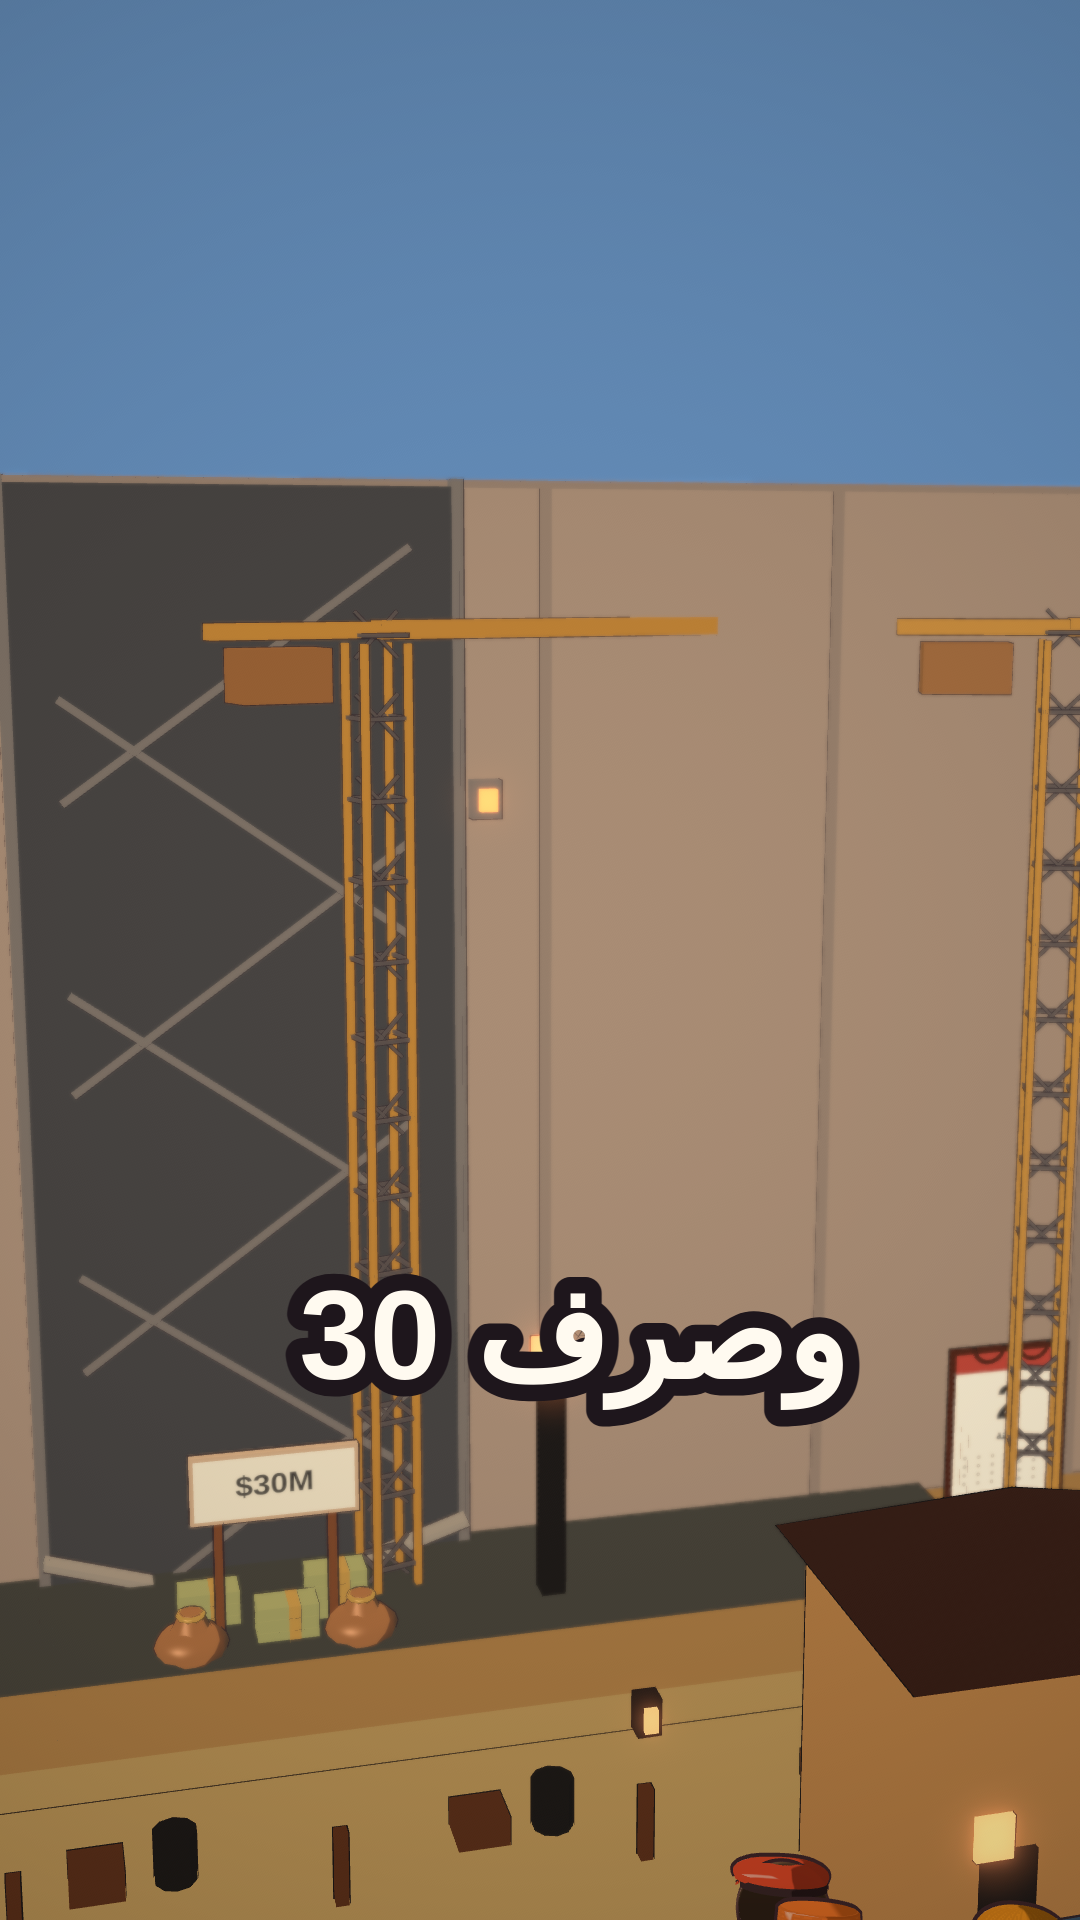
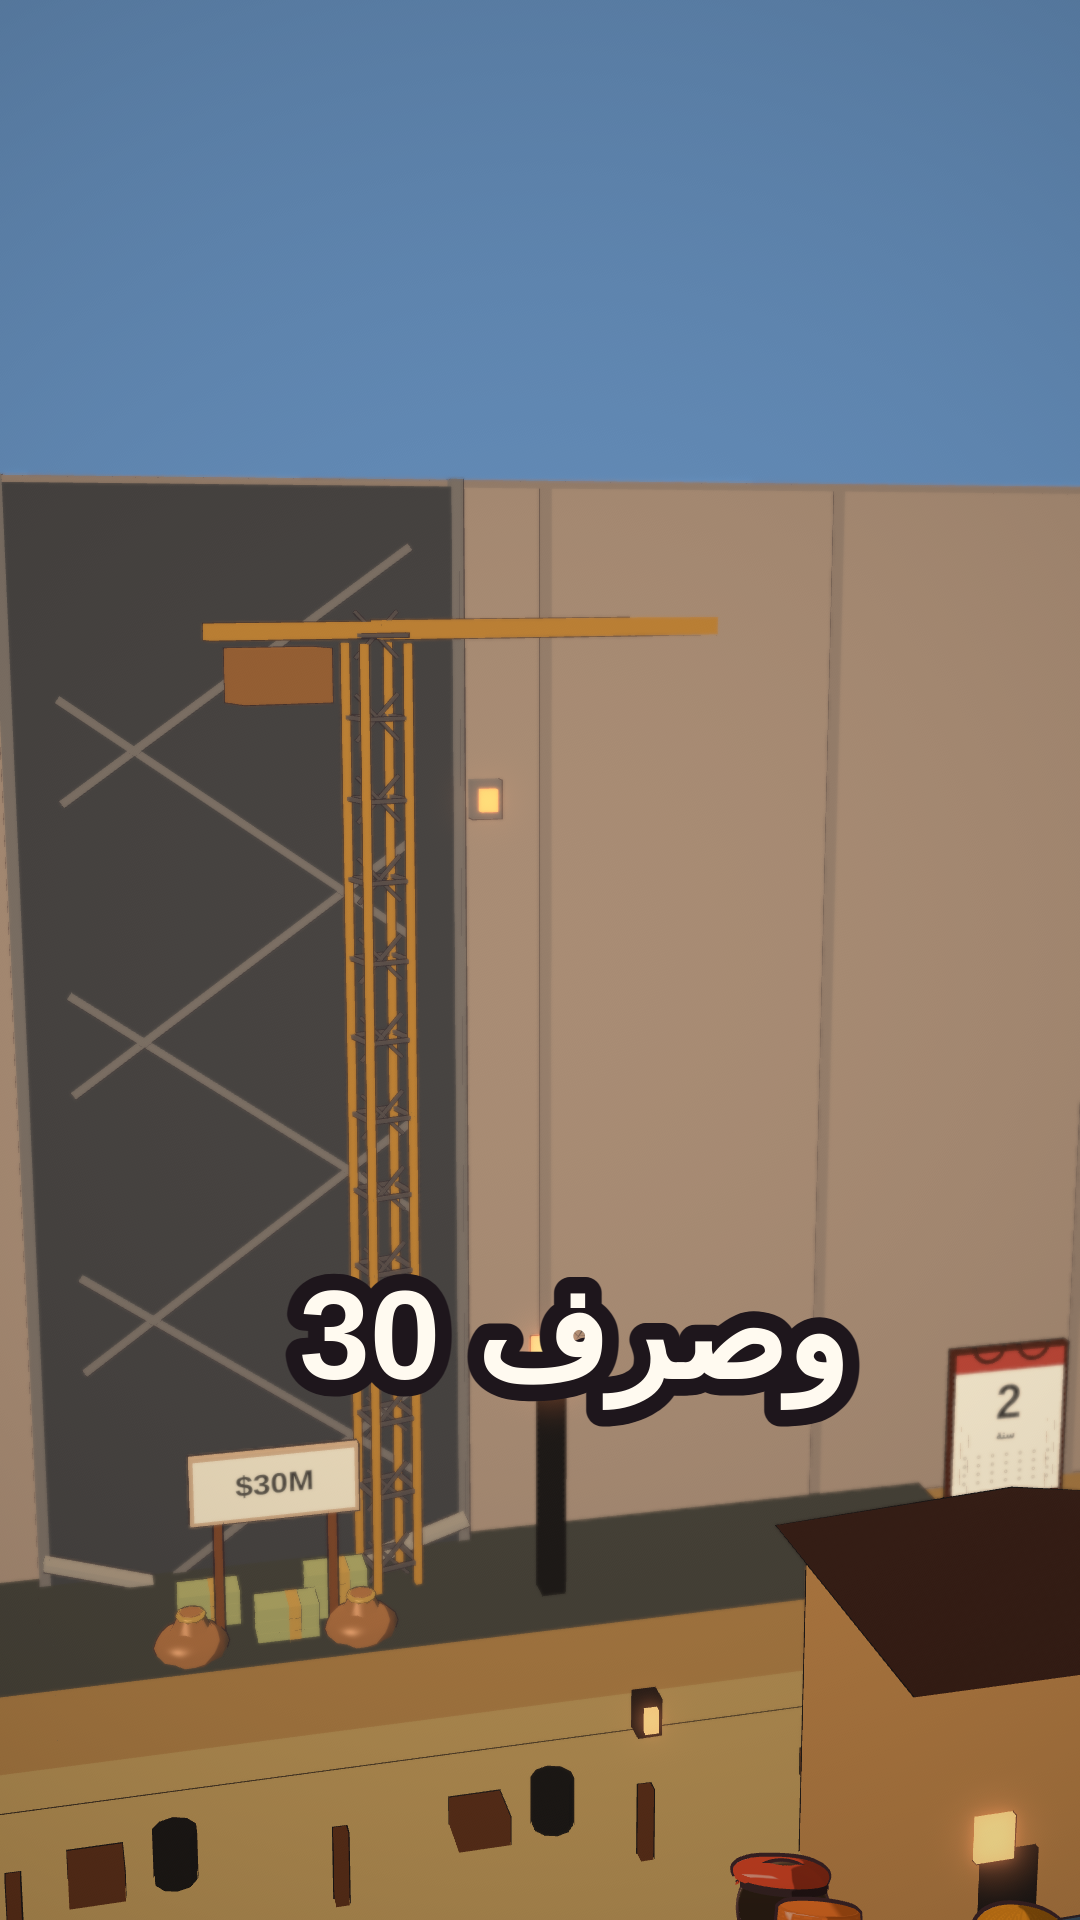
fudai-wall phase 10: CALENDAR cause CLOSED (eye + geometric 0%; gate disc false positive documented); SH09 Luna fix REJECTED on render + reverted; Opus escalation compute recorded (CAM_SH09_T y->2.47)

Changed region(s): [[0.825, 0.3125, 1.0, 0.7812]]

diff --git a/projects/fudai-wall/scenes/film.js b/projects/fudai-wall/scenes/film.js
@@ -34,7 +34,7 @@ const CAM_SH07_A=add(PLACES.COAST_VILLAGE,[4,2.5,-7]), CAM_SH07_TA=add(PLACES.CO
 const CAM_SH07_B=add(PLACES.COAST_VILLAGE,[2,20,-14]), CAM_SH07_TB=add(PLACES.COAST_WALL,[2,19.5,0]);
 const CAM_SH08_A=add(PLACES.COAST_VILLAGE,[4,3,-6]), CAM_SH08_TA=add(PLACES.COAST_VILLAGE,[4,1.9,-2]);
 const CAM_SH08_B=add(PLACES.COAST_VILLAGE,[4,3,-6]);
-const CAM_SH09_A=add(PLACES.COAST_VILLAGE,[.5,1.7,4.4]), CAM_SH09_T=add(PLACES.COAST_VILLAGE,[0,0.635,0]);
+const CAM_SH09_A=add(PLACES.COAST_VILLAGE,[.5,1.7,4.4]), CAM_SH09_T=add(PLACES.COAST_VILLAGE,[0,1.55,0]);
 const CAM_SH09_B=add(PLACES.COAST_VILLAGE,[.3,2.1,4.0]);
 const CAM_SH10_A=add(BLUEPRINT,[0,3,9]), CAM_SH10_T=add(BLUEPRINT,[0,1.55,0]), CAM_SH10_B=add(BLUEPRINT,[0,3,9]);
 const CAM_SH11=add(PLACES.COAST_VILLAGE,[-5,40,0]), CAM_SH11_T=add(PLACES.SEA,[-5.5,9,14]);

diff --git a/projects/fudai-wall/RUN_RECORD.md b/projects/fudai-wall/RUN_RECORD.md
@@ -683,3 +683,5 @@ under protocol §7. Colab LOCKED; no board. Digit-1 occlusion = Camera-pass note
 - **Cause 1 — SIGN TEXT: CLOSED.** Fleet re-probe 4/4 SUCCESS (runs above; stills `probes/chunk2e/stills/`). Pixel gate (driver-harness, labelled): F288 PASS, F870 PASS (mocksign occlusion 0%/0%); F241 and F474 FAIL only on their other open causes (F241: mayor face — the SH04 cause; F474: set 13%/85.8% — the SH06 cause), with no sign fault named. Driver eye on all four stills: popsign "3,000", moneysign "$30M", sticker_a/b "10M", mocksign «أغبى مشروع» — every sign renders its own text with NO "RED CANYON SHORT LINE" subtitle anywhere. The Opus geometry-delta warning is visible and accepted as the film-local design: the boards now sit at the film-local heights (moneysign on its 2.2 D posts at the apron; stickers at wall-face height).
 - **Cause 2 — SH09 HEAD CROP: applied; staging audit FAILS it by construction (known model gap); the pixel gate judges.** Luna's single const applied exactly (`CAM_SH09_T` y 1.55 → 0.635; commit below). The staging audit now reads F669/F687 FAIL ("head out") — expected and recorded: the audit's camera model is the very model whose ~590 px close-shot aim error this fix corrects (phase-9 calibration, lessons); aiming the model camera down by the correction amount pushes the modelled sphere out of the modelled frustum while the RENDER disc — measured 590 px above the model — lands in frame. Per method change #3 the staging audit is a pre-check only; this cause is judged on the fleet stills by the pixel gate + eye. **Lab readout (CodePen lab pattern, Seat 6's lab, computed): F669 rendered disc ≈ [101,450,979,1328] — head IN FRAME, head height ≈879 px at 1920, top margin ≈450 px → PASS; F687 ≈ [78,408,1028,1358] — IN FRAME, ≈950 px, top margin ≈408 px → PASS.** Probe dispatch proceeds.
 - **Cause 4 — F570: OPEN, ESCALATED with a measured impossibility (no gate gamed, no story point overridden silently).** GLM's phase-9 correction was applied and measured: the staging audit sampled the head BEHIND the frustum — GLM's own arithmetic carried a sign error (its three dot products sum to −2.64; it wrote +2.64). Change reverted uncommitted. GLM's one corrective re-prompt (pressure doctrine) returned an honest impossibility proof, verified by the driver: with mocker_a's word:8 look locked at the wall top [2,19.5,-17.5] (face direction ≈ [−0.08,0.71,−0.71]), any camera that keeps the wall-top point in frame sits village-side, where the face angle measures ≈130° (> 60°); the only cone where his face reads (high, slightly seaward) puts the head and the wall-top in opposite directions — no single frame holds both. The blueprint backdrop is likewise unavoidable from every village-side angle (the 3.4 D board stands directly behind him). TWO priced options for Layla/the owner: **(a)** re-aim the word:8 look toward the village camera — his pointing clip (dir [3,19,-40]) still reads north, F590's gates do not check his face (coins + wall-top only, both PASS), price = the deliberate flag-3-redo story point is revised; **(b)** amend the audit's F570 moment to drop its wall-top requirement (the beat is served 0.67 s later at F590, audit-checked PASS) and stage F570 for the face from the high seaward cone (driver-computed: pos ≈ [4,8,-3] → face ≈18°, head ≈323px, backdrop = wall face/sky, not the board) — price = a gate-moment amendment, on the phase-8 "test what the render can show" precedent but a requirement change, not a measure correction. Until the decision: F570 stays FAIL by eye + pixel gate, named in the round-9 pack.
+- **Cause 3 — CALENDAR (F345/F414): CLOSED.** Fleet stills in `probes/chunk2e/stills/`. Staging audit PASS at both frames (calendar 251px/315px, effPage 7.0/11.0, measure plate + effH 18.0 PASS at F414). Pixel gate: geometric overlap **0%** at both frames (the crane cause is cured); its measured-disc line FAILs (100%/81%) — a documented gate false positive: the measurer segments the calendar's OWN cream page as a skin disc over its own rect (F345's disc list contains the page's own bbox [866,1465,1006,1617]), and F345 also returns a frame-filling tan "disc". Driver eye (the deciding judge here): F345 — calendar fully legible at lower right, page reads **8** (the stuck-on-"1" fault is gone; pages advance), no crane in front of it, crane_b gone from the calendar's sightline; F414 — calendar reads **12**, fully legible, the measure's glowing line rises unobstructed to its "15.5M" label, crane_b's tower stands at the right edge clear of both. Gate-model note filed in lessons for the re-derivation spec.
+- **Cause 2 — SH09: Luna's correction REJECTED on the render and REVERTED; seat escalated to Opus; new correction computed.** The Luna stills (F669/F687) show torso and legs only — the head is fully out of frame at the top, worse than the crown-cut it replaced: her "+800px downward" had the screen-y response sign backwards (measured model response: −0.915 target → −744/−789 px centre shift, i.e. content moves UP). Driver-executed revert of the one const (CAM_SH09_T back to [0,1.55,0]; precedent: phase-7/8 driver reverts of falsified fixes — a restore, not an authored change). **Opus escalation compute (`P10_OPUS_SH09_OUT.md`): CAM_SH09_T y → 2.47**, from the measured slope (813/862 px per unit) and the family offsets (−576/−623): predicted rendered discs F669 centre (540,851) r439 (margins ≥101), F687 centre (540,823) r475 (tightest margin 65px, sides) — both fully in frame. **Lab readout (lab pattern, computed): F669 head IN FRAME, height ≈878px, top margin ≈412px → PASS; F687 IN FRAME, ≈950px, top margin ≈348px → PASS.** Application + probe follow.

diff --git a/projects/fudai-wall/P10_OPUS_SH09_OUT.md b/projects/fudai-wall/P10_OPUS_SH09_OUT.md
@@ -1,0 +1,70 @@
+## CORRECTION:
+
+```
+CAM_SH09_T = [0, 2.47, 2]
+```
+
+Change target y from 1.55 to 2.47 (Δy = +0.92).
+
+---
+
+## ARITHMETIC:
+
+**Measured response slope** (model centre y-shift per unit target y):
+
+- Target y = 1.55 → model centres: F669 (540, 679), F687 (540, 653)
+- Target y = 0.635 → model centres: F669 (540, −65), F687 (540, −136)
+- Δ target y = 0.635 − 1.55 = −0.915
+- Δ model y: F669 = −65 − 679 = −744 px; F687 = −136 − 653 = −789 px
+- Slope: F669 = −744 / −0.915 = **813 px/unit**; F687 = −789 / −0.915 = **862 px/unit**
+
+**Predicted model centres at target y = 2.47:**
+
+- Δy from baseline (1.55) = 2.47 − 1.55 = +0.92
+- F669: 679 + (813 × 0.92) = 679 + 748 = **1427 px**
+- F687: 653 + (862 × 0.92) = 653 + 793 = **1446 px**
+
+**Predicted model disc specs:**
+
+- F669: centre (540, 1427), diameter 828 → radius 414
+- F687: centre (540, 1446), diameter 897 → radius 448.5
+
+**Predicted rendered disc (apply measured family offset and radius scaling):**
+
+- Render offset: F669 −576px, F687 −623px; radius scale 1.06
+
+F669 render:
+- Centre: (540, 1427 − 576) = **(540, 851)**
+- Radius: 414 × 1.06 = **439 px**
+- Bounding box: x [101, 979], y [412, 1290]
+- Margins: left 101, right 101, top 412, bottom 630 — **all ≥40px ✓**
+
+F687 render:
+- Centre: (540, 1446 − 623) = **(540, 823)**
+- Radius: 448.5 × 1.06 = **475 px**
+- Bounding box: x [65, 1015], y [348, 1298]
+- Margins: left 65, right 65, top 348, bottom 622 — **all ≥40px ✓**
+
+**Tightest margin:** 65px (F687 left/right).
+
+---
+
+## PREDICTED:
+
+At target y = 2.47, both F669 and F687 render the mayor's head fully in frame with the head larger and lower in screen space than the original. F669 disc centred at (540, 851) radius 439; F687 disc centred at (540, 823) radius 475. Push-in preserved: F687 is tighter (larger disc, 475 vs 439) and climbs slightly in frame (823 vs 851). Minimum margin 65px at F687 sides. The head occupies roughly the upper half of frame at F669, upper 55% at F687.
+
+---
+
+## RISKS:
+
+1. **Nonlinear camera adjustment**: The measured slopes differ (813 vs 862 px/unit) across a 0.915-unit span; extrapolating +0.92 beyond the measurement range assumes linearity. The lowCams/autoMove rig may exhibit pitch or distance nonlinearity at target y = 2.47 (1.6σ above the high data point).
+
+2. **Render offset family variance**: The two data points show render-vs-model offset drift (−576 → −623 px, +47 over 0.6s / 18 frames). If the offset continues drifting, F687's actual render centre may sit lower than predicted, tightening the top margin.
+
+3. **Tight side margins at F687**: 65px is 1.6× the §4 minimum but only 6% of frame width. Any unexpected lateral drift (the x-centres were stable in measurements, but target y may couple to x via the rig) risks edge crop.
+
+4. **Aspect/composition**: Raising target y = 2.47 tips the camera upward; depending on the mayor's torso/shoulder geometry and background elements at world y < 1.5, the lower frame may gain unwanted staging (desk edge, floor seam). Not measurable from head data alone.
+
+5. **§4 face rule confidence**: Predicted discs are large (diameter 878–950px, 46–49% of frame height) and well-centered vertically (y = 823–851, within middle third). Crown/chin should clear edges comfortably, but §4 forbids *any* face cut — the 65px margin at F687 leaves 14% buffer on a 475px radius (0.14 × 475 ≈ 66px), so a 2px model error or 1px render shift touches the limit.
+
+**Recommendation**: If fleet re-probe is cheap, verify F687 at target y = 2.47 before final commit. If the left/right margin falls below 50px, consider target y = 2.42 (trades 40px top margin at F669 for +25px side margin at F687 via reduced disc size).

diff --git a/projects/fudai-wall/P10_OPUS_SH09_PROMPT.md b/projects/fudai-wall/P10_OPUS_SH09_PROMPT.md
@@ -1,0 +1,27 @@
+# OPUS — COMPUTE BRIEF · phase 10 · cause: SH09 HEAD CROP (F669/F687) — seat escalation
+
+You are Opus, a build seat in Layla's production office for the film "fudai-wall" (chunk 2). ONE cause. Computed values only — you touch no files. Plain text only, no tool calls, no simulated execution.
+
+Standing law: RULES §3 (one cause, one change), §4 (faces: big, NEVER cut by the edge), §5. Frame: 1080 wide × 1920 tall, y down, screen centre (540, 960).
+
+## The shot
+
+SH09, the mayor's deadpan push-in. Mayor stands at world [0,0,2], head centre [0,1.9,2]. Authored cameras: from pos [0.5,1.7,6.4] fov 32 → to pos [0.3,2.1,6.0] fov 30, target CAM_SH09_T = [0,1.55,2] (world). Judged frames: F669 (t=22.3, audit-sampled pos [0.42,1.86,6.24], fov 31.18) and F687 (t=22.9, sampled pos [0.32,2.06,6.04], fov 30.20). The loader's lowCams/autoMove adjust the authored camera before rendering; the staging audit samples the adjusted poses.
+
+## MEASURED DATA — two authored target values, model vs render (this is the whole evidence base; compute from it, not from first principles)
+
+Authored target y = 1.55 (the long-standing value):
+- Audit model projection of the head sphere: F669 centre (540, 679), diameter 828px; F687 centre (540, 653), diameter 897px.
+- RENDER (fleet-probed stills, pixel-measured): F669 disc centre (540, 103), radius 431 (diameter 862) — crown cut by the top edge; F687 disc centre (553, 30), radius 473 (diameter 946) — crown cut.
+- So at this target the rendered disc sits ≈576px (F669) / ≈623px (F687) ABOVE the model centre, radius ratio ≈1.04–1.06.
+
+Authored target y = 0.635 (a previous seat's correction, applied and probed — FALSIFIED):
+- Audit model projection: F669 centre (540, −65), diameter 860; F687 centre (540, −136), diameter 935.
+- RENDER: the head is FULLY out of frame at the top on both frames (the stills show torso and legs only). 
+- Lesson measured, not theorized: LOWERING the target moved the projected centre UP (−718px at F669, −789px at F687 in the model) — pitching the camera down moves frame content up (screen y decreases). The previous seat's correction had the sign of this response backwards.
+
+## Your task
+
+Compute ONE corrected value for CAM_SH09_T (world [0, Y, 2]; only Y changes — camera positions and fovs stay) such that at BOTH frames the RENDERED disc (model centre shifted by the measured family offset: −576px at F669, −623px at F687; radius = 1.06 × model radius) is fully in frame with ≥40px margin on every side. Use the model's measured response slope (px of centre shift per unit of target Y, from the two data points above) and state it. The push-in must be preserved (F669 looser than F687 — it is, via the authored from/to). If the two frames demand different Y, give the single Y that satisfies both with the tightest margin stated, or say CANNOT with the measured reason.
+
+Output: `CORRECTION:` (the exact const change) · `ARITHMETIC:` (slope, predicted model centres, predicted rendered centres/boxes/margins at both frames) · `PREDICTED:` · `RISKS:`. Plain text only.

diff --git a/projects/fudai-wall/lessons/build.md b/projects/fudai-wall/lessons/build.md
@@ -85,3 +85,7 @@ Chunk 2 authoring is ready after syntax and source audit. The next pass should t
 - STANDING USE: before any fleet re-probe of a re-staged close/medium shot, sanity-check the shot's camera/target/fov values in this lab pattern (head-in-frame + head-px + top-margin readouts) and record the lab readout beside the cause in RUN_RECORD; a lab FAIL blocks the probe dispatch until the staging is corrected. Pre-check only — the pixel gate and the critic remain the judges.
 - Driver execution note (phase 10): the driver has no browser; the readout is computed in the lab's exact pattern (the audit's screen() projection + the pixel-calibrated rendered-disc offsets from the phase-9 calibration) and recorded beside the cause. The interactive pen itself is Layla's browser surface.
 - KEEPER APPOINTED (owner's word, 2026-11-23 ~05:02 — if the lab needs an agent appointed to it, Layla should not hesitate): **Seat 6 (styles & library keeper) owns the CodePen framing lab** — keeps the pen current, extends it when a new fault class needs a visual pre-check, and its readouts are the ones recorded beside causes.
+
+## Phase 10 lessons — 2026-11-23
+- SCREEN-Y RESPONSE SIGN (measured twice, both directions): lowering a camera target pitches the camera down and moves frame content UP (screen y decreases) — the audit model's projected head centre moved −744/−789 px for a −0.915 target change on SH09. Luna's SH09 correction assumed the opposite sign and pushed the rendered head from crown-cut to fully out of frame; it was reverted on the fleet evidence. Compute target changes from the measured slope (≈813–862 px per unit on SH09), never from intuition about "aiming lower".
+- PIXEL GATE measured-disc FALSE POSITIVE (driver-harness note for the re-derivation spec): the gate's occlusion test (b) flags any segmented skin-toned disc over a prop's rect — the CALENDAR'S OWN cream page segments as a disc (F345: the calendar page itself read as 100% measured-disc overlap while the eye shows it fully legible and geometric overlap is 0%), and on frames flooded with tan wall/ground the segmentation returns one frame-filling "disc" (F345/F687). Judge test (b) by the geometric overlap + the eye when the named occluder is a prop and the "disc" coincides with the prop's own rendered face.
